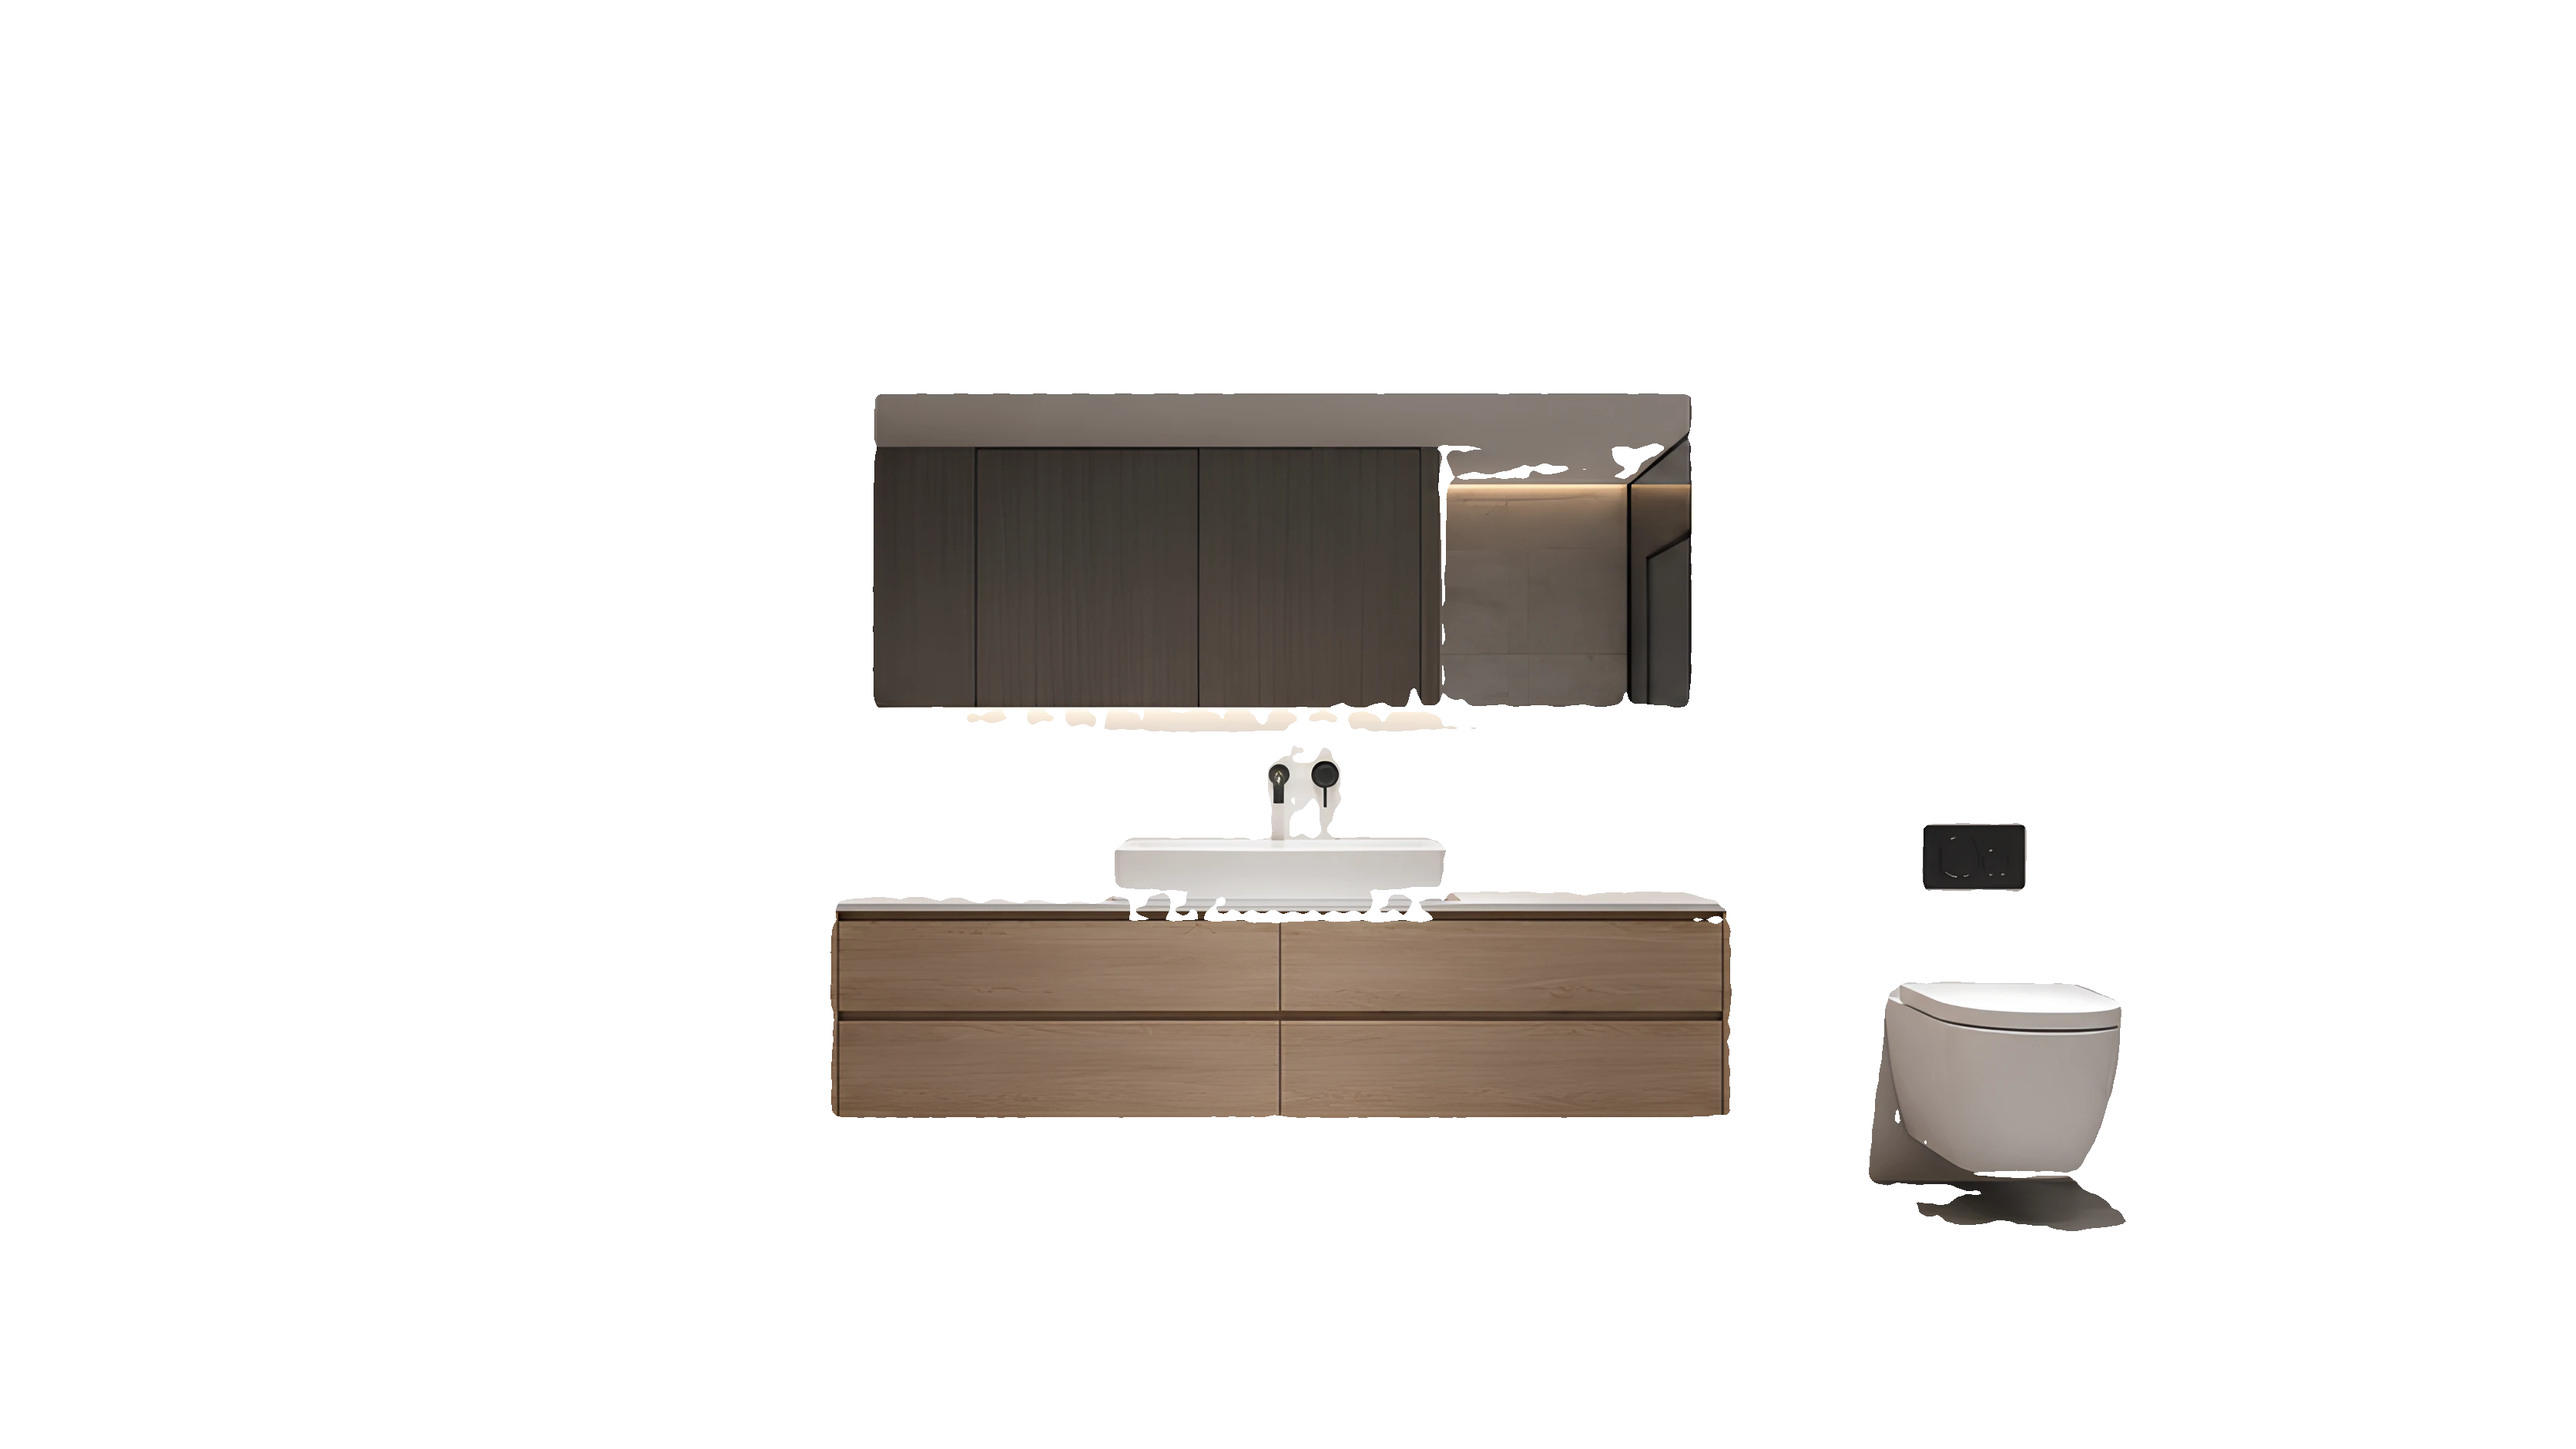
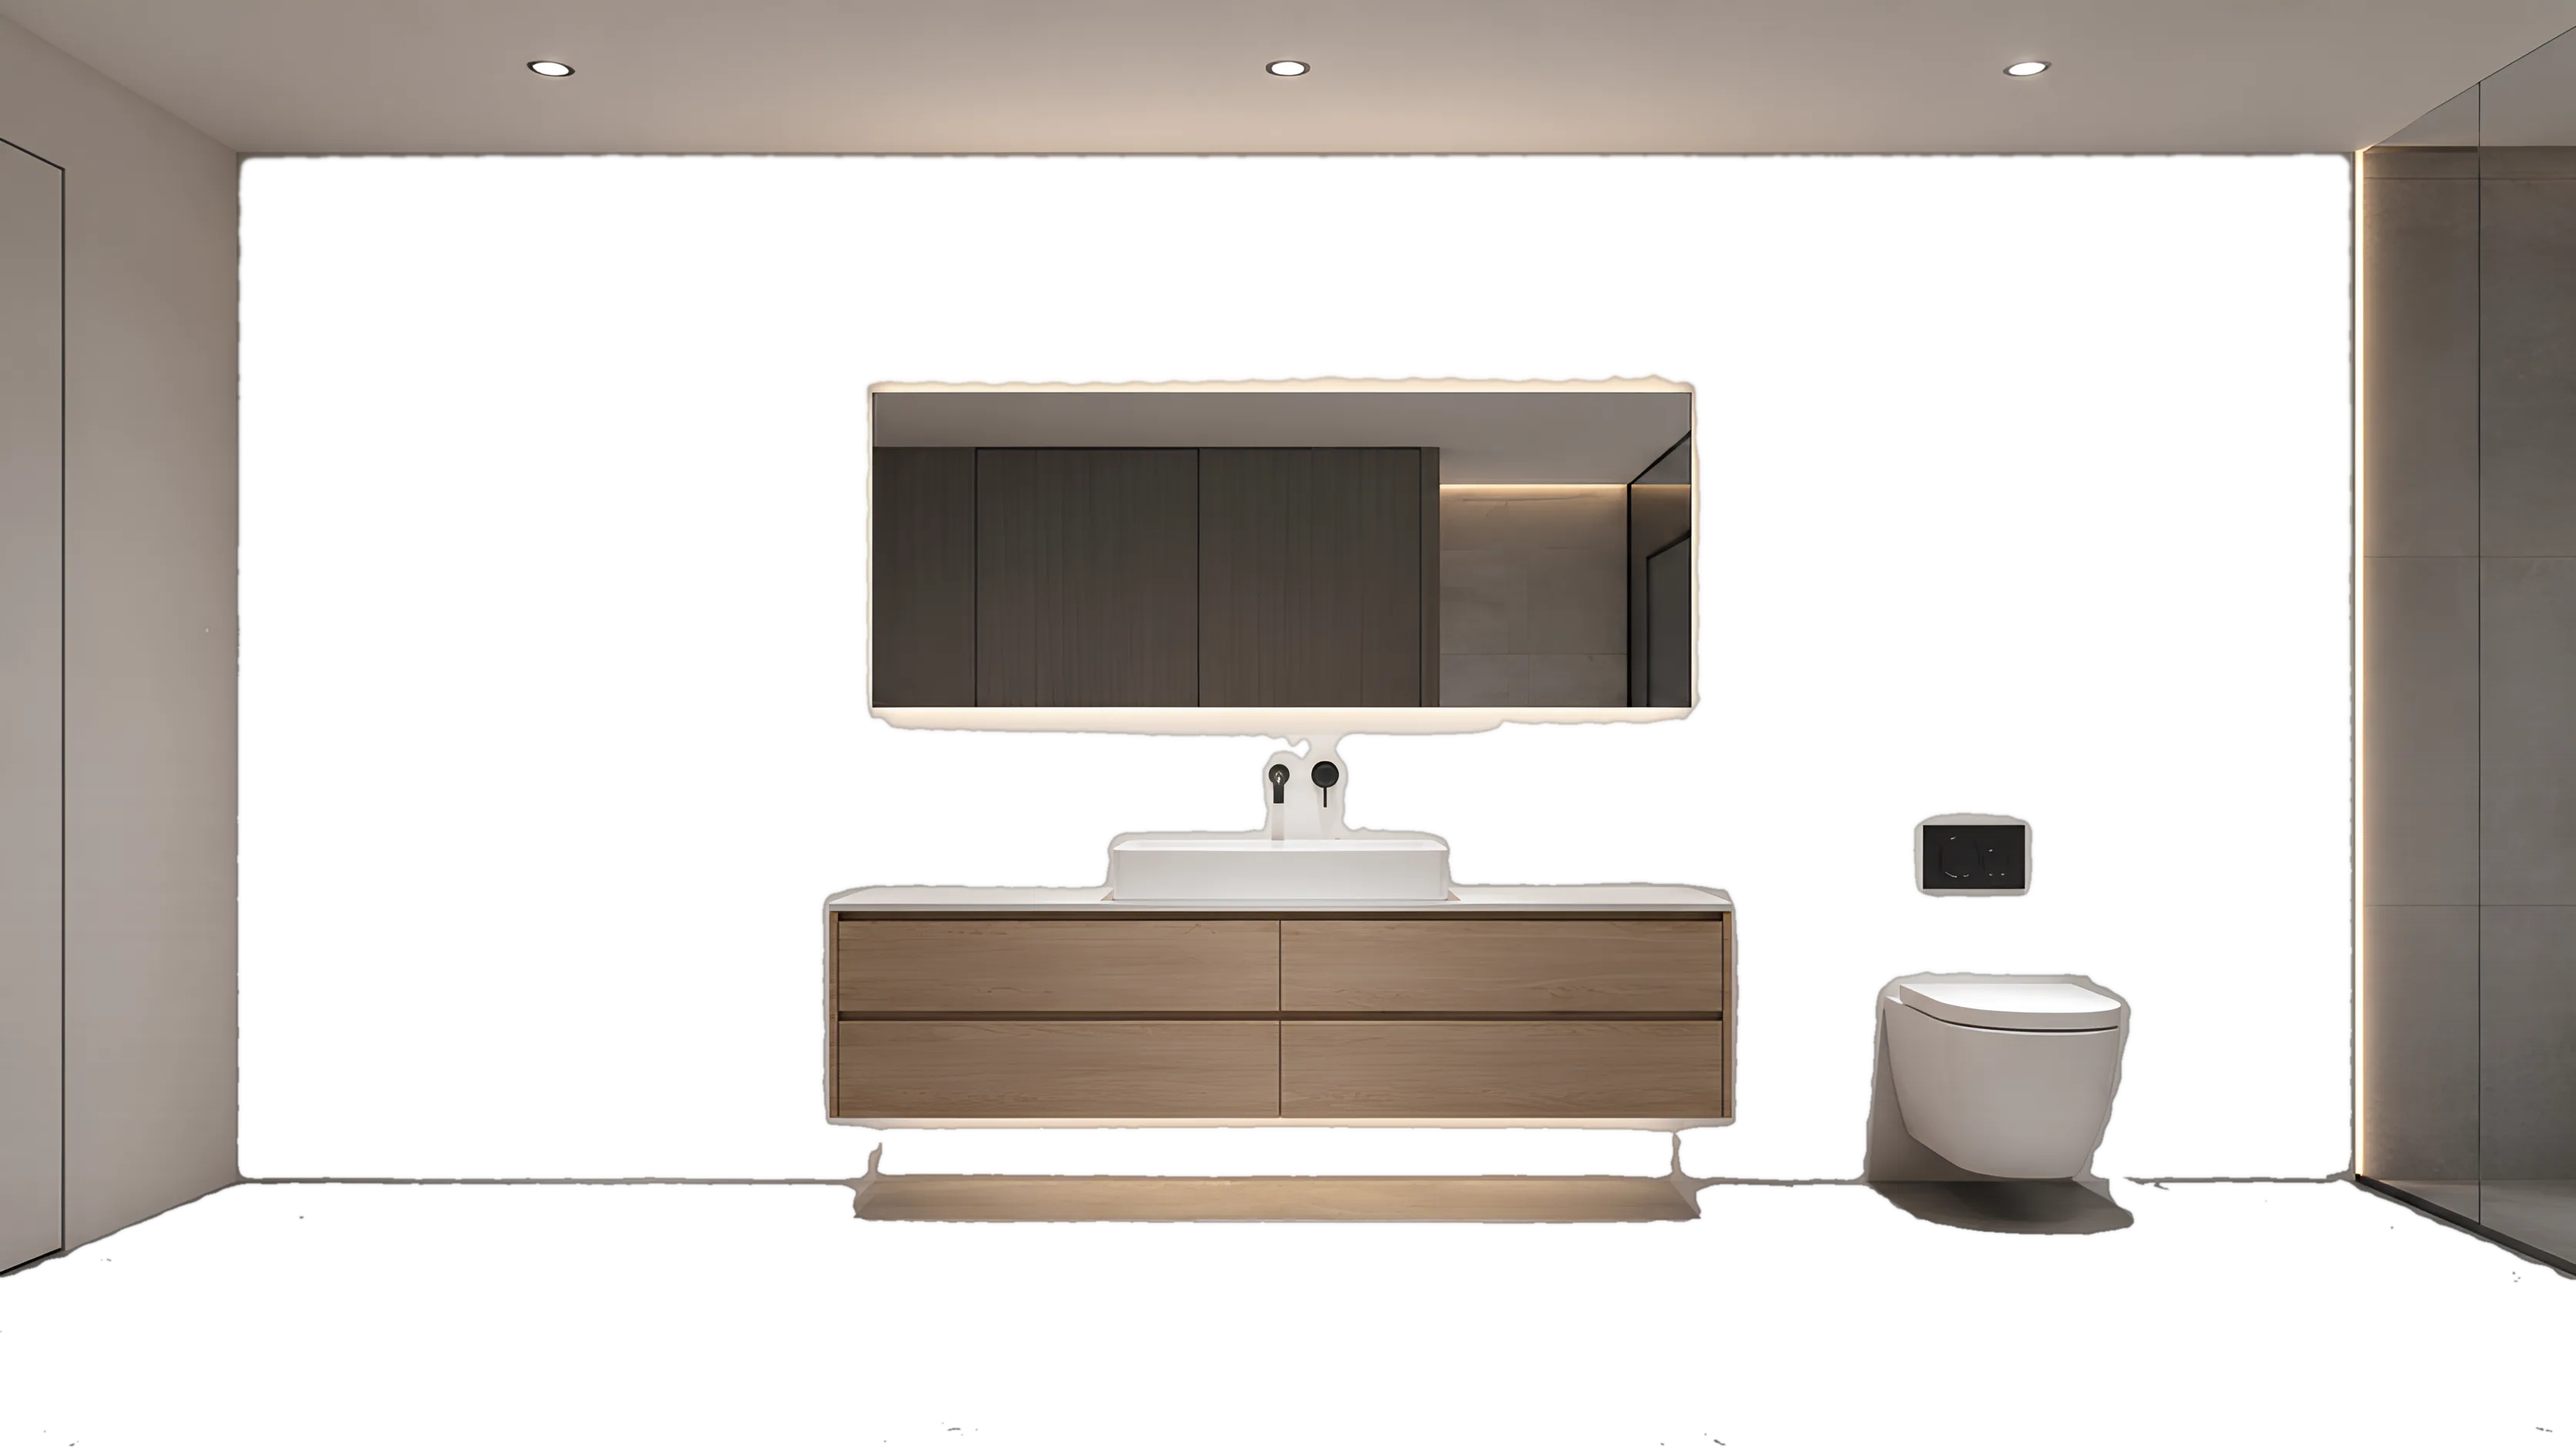
perf(2d): WebP packs, asset preload, catalogue apply-to-visualizer
Convert A–E room bases/masks/overlays to WebP (~24MB less), serve WebP from
rooms2d, prefetch packs on open/room switch, and wire catalogue Try Visualizer
to apply the product onto matching 2D zones via view-in-2d.

diff --git a/src/data/rooms2d.js b/src/data/rooms2d.js
@@ -1,6 +1,7 @@
 // 2D lifestyle room packs — photo + masks + locked overlay.
-// Contract for EVERY model: floor + wall only (same as bathroom-01).
-// Pack: base.png · mask-floor.png · mask-wall.png · overlay-locked.png
+// Prefer WebP when present (built by scripts/build_2d_room_webp.mjs); PNG remains for tools.
+
+const W = (room, file) => `/2d-rooms/${room}/${file}.webp`
 
 export const rooms2d = [
   // Model A — Small Bathroom (Photopea-quality pack)
@@ -8,10 +9,9 @@ export const rooms2d = [
     id: 'bathroom-01',
     name: 'Small Bathroom',
     blurb: 'PRD Model A · floor + wall',
-    baseUrl: '/2d-rooms/bathroom-01/base.png',
-    overlayUrl: '/2d-rooms/bathroom-01/overlay-locked.png',
+    baseUrl: W('bathroom-01', 'base'),
+    overlayUrl: W('bathroom-01', 'overlay-locked'),
     roomWidthMM: 2438,
-    // Lower scale = finer tiles on first open (slider: finer ← → larger)
     defaultTileScale: 0.65,
     maskFeatherPx: 2.2,
     lightStrength: 0.75,
@@ -21,12 +21,9 @@ export const rooms2d = [
         id: 'floor',
         label: 'Floor',
         surface: 'Floor',
-        maskUrl: '/2d-rooms/bathroom-01/mask-floor.png',
-        // Optional perspective: normalized TL,TR,BR,BL of the floor plane.
-        // Leave null/omit for flat tiling. Tune in Photopea / by eye if needed.
-        // perspectiveQuad: [[0.12, 0.62], [0.88, 0.62], [0.98, 0.96], [0.02, 0.96]],
+        maskUrl: W('bathroom-01', 'mask-floor'),
       },
-      { id: 'wall', label: 'Wall', surface: 'Wall', maskUrl: '/2d-rooms/bathroom-01/mask-wall.png' },
+      { id: 'wall', label: 'Wall', surface: 'Wall', maskUrl: W('bathroom-01', 'mask-wall') },
     ],
   },
   // Model B — Large Bathroom
@@ -34,17 +31,16 @@ export const rooms2d = [
     id: 'large-bathroom-b',
     name: 'Large Bathroom',
     blurb: 'PRD Model B · floor + wall',
-    baseUrl: '/2d-rooms/large-bathroom-b/base.png',
-    overlayUrl: '/2d-rooms/large-bathroom-b/overlay-locked.png',
-    // Wider + finer default scale → avoids giant “banner” starter tiles
+    baseUrl: W('large-bathroom-b', 'base'),
+    overlayUrl: W('large-bathroom-b', 'overlay-locked'),
     roomWidthMM: 4000,
     defaultTileScale: 0.5,
     maskFeatherPx: 2.0,
     lightStrength: 0.72,
     grout: { enabled: false, color: '#d4cdc0' },
     zones: [
-      { id: 'floor', label: 'Floor', surface: 'Floor', maskUrl: '/2d-rooms/large-bathroom-b/mask-floor.png' },
-      { id: 'wall', label: 'Wall', surface: 'Wall', maskUrl: '/2d-rooms/large-bathroom-b/mask-wall.png' },
+      { id: 'floor', label: 'Floor', surface: 'Floor', maskUrl: W('large-bathroom-b', 'mask-floor') },
+      { id: 'wall', label: 'Wall', surface: 'Wall', maskUrl: W('large-bathroom-b', 'mask-wall') },
     ],
   },
   // Model C — Staircase (full stair surfaces only — walls stay photo-locked)
@@ -52,17 +48,15 @@ export const rooms2d = [
     id: 'staircase-c',
     name: 'Staircase',
     blurb: 'PRD Model C · full stairs only',
-    baseUrl: '/2d-rooms/staircase-c/base.png',
-    overlayUrl: '/2d-rooms/staircase-c/overlay-locked.png',
-    // Wider effective width → smaller tile cells (avoids giant “sticker” tiles)
+    baseUrl: W('staircase-c', 'base'),
+    overlayUrl: W('staircase-c', 'overlay-locked'),
     roomWidthMM: 4200,
     defaultTileScale: 0.55,
     maskFeatherPx: 2.4,
-    // Stronger multiply of base lighting so tiles pick up step shadows / AO
     lightStrength: 0.88,
     grout: { enabled: false, color: '#d4cdc0' },
     zones: [
-      { id: 'floor', label: 'Stairs', surface: 'Floor', maskUrl: '/2d-rooms/staircase-c/mask-floor.png' },
+      { id: 'floor', label: 'Stairs', surface: 'Floor', maskUrl: W('staircase-c', 'mask-floor') },
     ],
   },
   // Model D — Feature Wall (wall only — no floor zone)
@@ -70,15 +64,15 @@ export const rooms2d = [
     id: 'feature-wall-d',
     name: 'Feature Wall',
     blurb: 'PRD Model D · wall only',
-    baseUrl: '/2d-rooms/feature-wall-d/base.png',
-    overlayUrl: '/2d-rooms/feature-wall-d/overlay-locked.png',
+    baseUrl: W('feature-wall-d', 'base'),
+    overlayUrl: W('feature-wall-d', 'overlay-locked'),
     roomWidthMM: 9144,
     defaultTileScale: 0.55,
     maskFeatherPx: 2.0,
     lightStrength: 0.68,
     grout: { enabled: false, color: '#d4cdc0' },
     zones: [
-      { id: 'wall', label: 'Wall', surface: 'Wall', maskUrl: '/2d-rooms/feature-wall-d/mask-wall.png' },
+      { id: 'wall', label: 'Wall', surface: 'Wall', maskUrl: W('feature-wall-d', 'mask-wall') },
     ],
   },
   // Model E — Vanity
@@ -86,18 +80,38 @@ export const rooms2d = [
     id: 'vanity-e',
     name: 'Vanity Counter',
     blurb: 'PRD Model E · floor + wall',
-    baseUrl: '/2d-rooms/vanity-e/base.png',
-    overlayUrl: '/2d-rooms/vanity-e/overlay-locked.png',
+    baseUrl: W('vanity-e', 'base'),
+    overlayUrl: W('vanity-e', 'overlay-locked'),
     roomWidthMM: 3600,
     defaultTileScale: 0.55,
     maskFeatherPx: 2.0,
     lightStrength: 0.72,
     grout: { enabled: false, color: '#d4cdc0' },
     zones: [
-      { id: 'floor', label: 'Floor', surface: 'Floor', maskUrl: '/2d-rooms/vanity-e/mask-floor.png' },
-      { id: 'wall', label: 'Wall', surface: 'Wall', maskUrl: '/2d-rooms/vanity-e/mask-wall.png' },
+      { id: 'floor', label: 'Floor', surface: 'Floor', maskUrl: W('vanity-e', 'mask-floor') },
+      { id: 'wall', label: 'Wall', surface: 'Wall', maskUrl: W('vanity-e', 'mask-wall') },
     ],
   },
 ]
 
 export const getRoom2d = (id) => rooms2d.find((r) => r.id === id) || rooms2d[0]
+
+/** All image URLs for a room pack (for preload). */
+export function roomAssetUrls(room) {
+  if (!room) return []
+  const urls = [room.baseUrl, room.overlayUrl].filter(Boolean)
+  for (const z of room.zones || []) {
+    if (z.maskUrl) urls.push(z.maskUrl)
+  }
+  return urls
+}
+
+/** Prefetch room pack images into browser HTTP cache. */
+export function preloadRoomAssets(room) {
+  if (typeof window === 'undefined' || !room) return
+  for (const url of roomAssetUrls(room)) {
+    const img = new Image()
+    img.decoding = 'async'
+    img.src = url
+  }
+}

diff --git a/src/components/sections/Visualizer2D.jsx b/src/components/sections/Visualizer2D.jsx
@@ -2,7 +2,7 @@ import { useCallback, useEffect, useMemo, useRef, useState } from 'react'
 import SectionHeading from '../ui/SectionHeading'
 import ZonePicker from '../visualizer/ZonePicker'
 import Icon from '../Icons'
-import { rooms2d } from '../../data/rooms2d'
+import { rooms2d, preloadRoomAssets } from '../../data/rooms2d'
 import { visualizerProducts as products } from '../../data/visualizerCatalogue'
 import { surfaceMatches } from '../../utils/surfaces'
 import { isStrong2dTile } from '../../data/tileQuality2d'
@@ -115,7 +115,49 @@ export default function Visualizer2D() {
     setZoneTextures(defaultZoneTextures(next.zones))
     setTileScale(roomTileScale(next))
     setGroutOn(false)
+    preloadRoomAssets(next)
+    // Warm-cache neighbour rooms for snappy tab switches
+    const idx = rooms2d.findIndex((r) => r.id === next.id)
+    if (idx >= 0) {
+      if (rooms2d[idx + 1]) preloadRoomAssets(rooms2d[idx + 1])
+      if (rooms2d[idx - 1]) preloadRoomAssets(rooms2d[idx - 1])
+    }
   }, [])
+
+  // Prefetch first room (+ next) as soon as the section mounts
+  useEffect(() => {
+    preloadRoomAssets(rooms2d[0])
+    if (rooms2d[1]) preloadRoomAssets(rooms2d[1])
+  }, [])
+
+  // Catalogue "Try Visualizer" → apply product onto matching zone(s)
+  useEffect(() => {
+    const handler = (e) => {
+      const product = e?.detail
+      if (!product) return
+      setZoneTextures((prev) => {
+        const next = { ...prev }
+        const zones = (rooms2d.find((r) => r.id === roomId) || rooms2d[0]).zones
+        let applied = false
+        for (const z of zones) {
+          if (surfaceMatches(product.surface, z.surface)) {
+            next[z.id] = product
+            applied = true
+            // Prefer floor first when product is Both / Floor
+            if (z.surface === 'Floor' || z.id === 'floor') {
+              setActiveZoneId(z.id)
+            }
+          }
+        }
+        // Only apply when surface matches a zone — don't force wall tile onto stairs-only room
+        if (!applied) return prev
+        return next
+      })
+      if (isMobile) setSheetOpen(true)
+    }
+    window.addEventListener('view-in-2d', handler)
+    return () => window.removeEventListener('view-in-2d', handler)
+  }, [roomId, isMobile])
 
   const activeZone = useMemo(
     () => room.zones.find((z) => z.id === activeZoneId) || room.zones[0],

diff --git a/src/components/sections/Catalogue.jsx b/src/components/sections/Catalogue.jsx
@@ -179,8 +179,11 @@ export default function Catalogue() {
   const visible = filtered.slice(0, visibleCount)
   const hasMore = visibleCount < filtered.length
 
-  const onViewIn3D = () => {
-    // 3D visualizer removed — scroll to 2D room visualizer in its place
+  const onViewIn3D = (product) => {
+    // Apply catalogue product onto the 2D visualizer, then scroll into view
+    if (product) {
+      window.dispatchEvent(new CustomEvent('view-in-2d', { detail: product }))
+    }
     document.getElementById('visualizer')?.scrollIntoView({ behavior: 'smooth' })
   }
 

diff --git a/docs/2d-visualizer-pipeline.md b/docs/2d-visualizer-pipeline.md
@@ -378,7 +378,19 @@ Tune by eye until grout lines vanish correctly into the room; leave omitted for 
 
 ---
 
-## 11. One-sentence mental model
+## 11. Performance notes (high ROI)
+
+| Optimization | Status |
+|--------------|--------|
+| **WebP room packs** | `npm run build:2d-webp` → `.webp` for base/overlay/masks; `rooms2d.js` serves WebP |
+| **Preload** | `preloadRoomAssets()` on mount + room switch |
+| **Catalogue → 2D** | `view-in-2d` custom event applies product to matching zones |
+| **Mobile lite-first** | `RoomCanvas preferLiteFirst` on small screens |
+| PNG sources | Kept for Python/SAM tooling; browser uses WebP |
+
+---
+
+## 12. One-sentence mental model
 
 **We generate lifestyle room photos, cut them into floor/wall masks with cloud SAM + OpenCV, lock fixtures in an RGBA overlay (with contact AO), then in the browser fill those masks with seamless catalogue textures via canvas `createPattern`, multiply room luminance back on, and optionally warp floors into a perspective quad — with Photopea reserved when hand quality must match Model A.**
 
